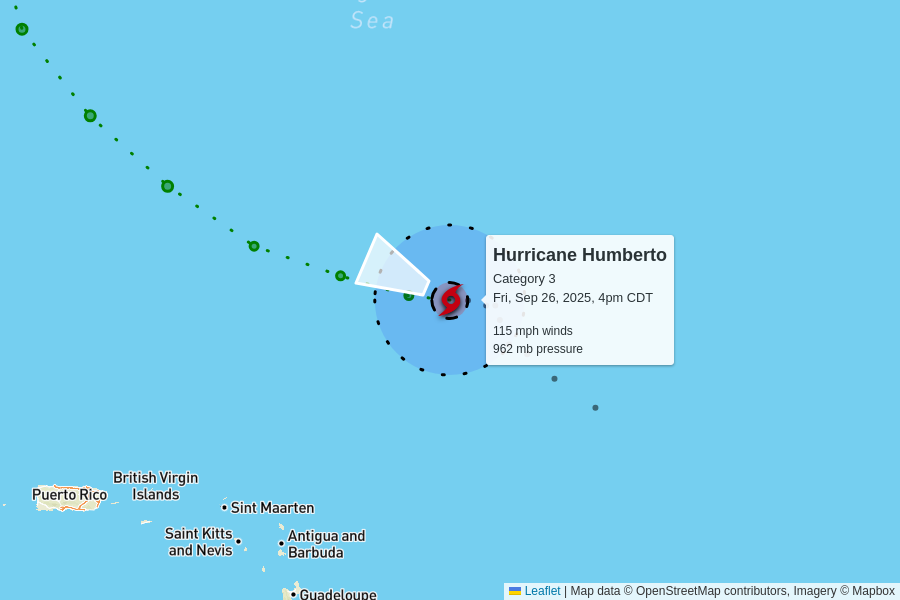
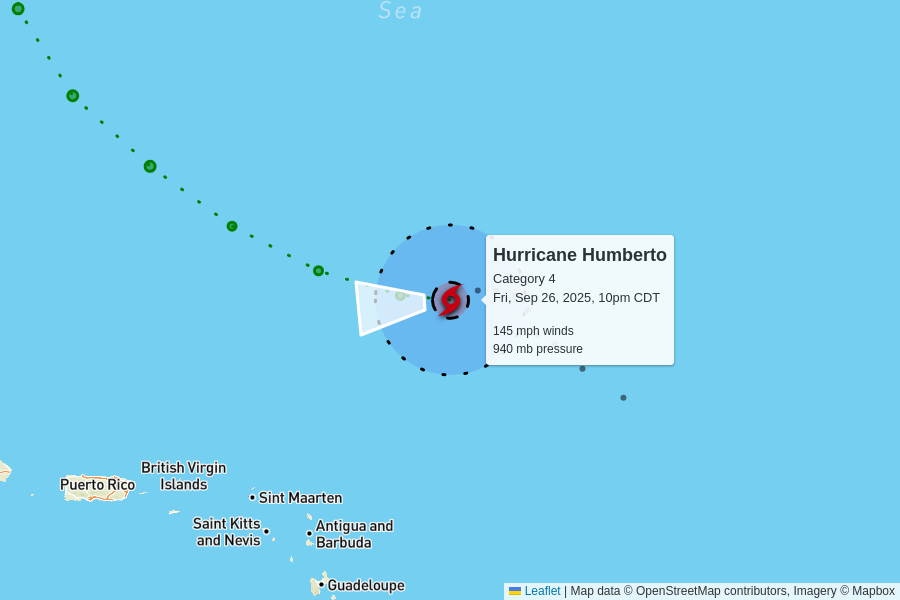
automatic update

diff --git a/docs/index.html b/docs/index.html
@@ -101,10 +101,10 @@
 
     <table>
       <tr>
-        <td colspan="6" class="storm category-3" >
+        <td colspan="6" class="storm category-4" >
           <h2>
-            Hurricane Humberto - Category 3
-            <p class="updated">last updated <span data-time>2025-09-26T21:00:00.000Z</span></p>
+            Hurricane Humberto - Category 4
+            <p class="updated">last updated <span data-time>2025-09-27T03:00:00.000Z</span></p>
           </h2>
         </td>
       </tr>
@@ -119,12 +119,12 @@
       </tr>
       <tr>
         <td class="spacer"></td>
-        <td>115 mph<br>+25 mph since last update</td>
-        <td>962 mb<br>-17 mb since last update</td>
+        <td>145 mph<br>+30 mph since last update</td>
+        <td>940 mb<br>-22 mb since last update</td>
         <td>
-          5 mph to the west-northwest
+          7 mph to the west
           <br/>
-          <span style="display: inline-block; font-size: 1.5em; transform: rotate(295deg);">↑</span>
+          <span style="display: inline-block; font-size: 1.5em; transform: rotate(265deg);">↑</span>
         </td>
         <td><a href="https://raw.githubusercontent.com/mgwalker/atlantic-hurricanes/main/data/csv/AL082025.csv">AL082025.csv</a></td>
         <td><a href="https://www.nhc.noaa.gov/archive/2025/HUMBERTO.shtml?">NHC advisories</a></td>
@@ -148,7 +148,7 @@
         <td colspan="6" class="storm category-0" >
           <h2>
             Potential Tropical Cyclone Nine
-            <p class="updated">last updated <span data-time>2025-09-26T21:00:00.000Z</span></p>
+            <p class="updated">last updated <span data-time>2025-09-27T03:00:00.000Z</span></p>
           </h2>
         </td>
       </tr>
@@ -163,8 +163,8 @@
       </tr>
       <tr>
         <td class="spacer"></td>
-        <td>35 mph</td>
-        <td>1008 mb</td>
+        <td>35 mph<br>0 mph since last update</td>
+        <td>1007 mb<br>-1 mb since last update</td>
         <td>
           9 mph to the northwest
           <br/>
